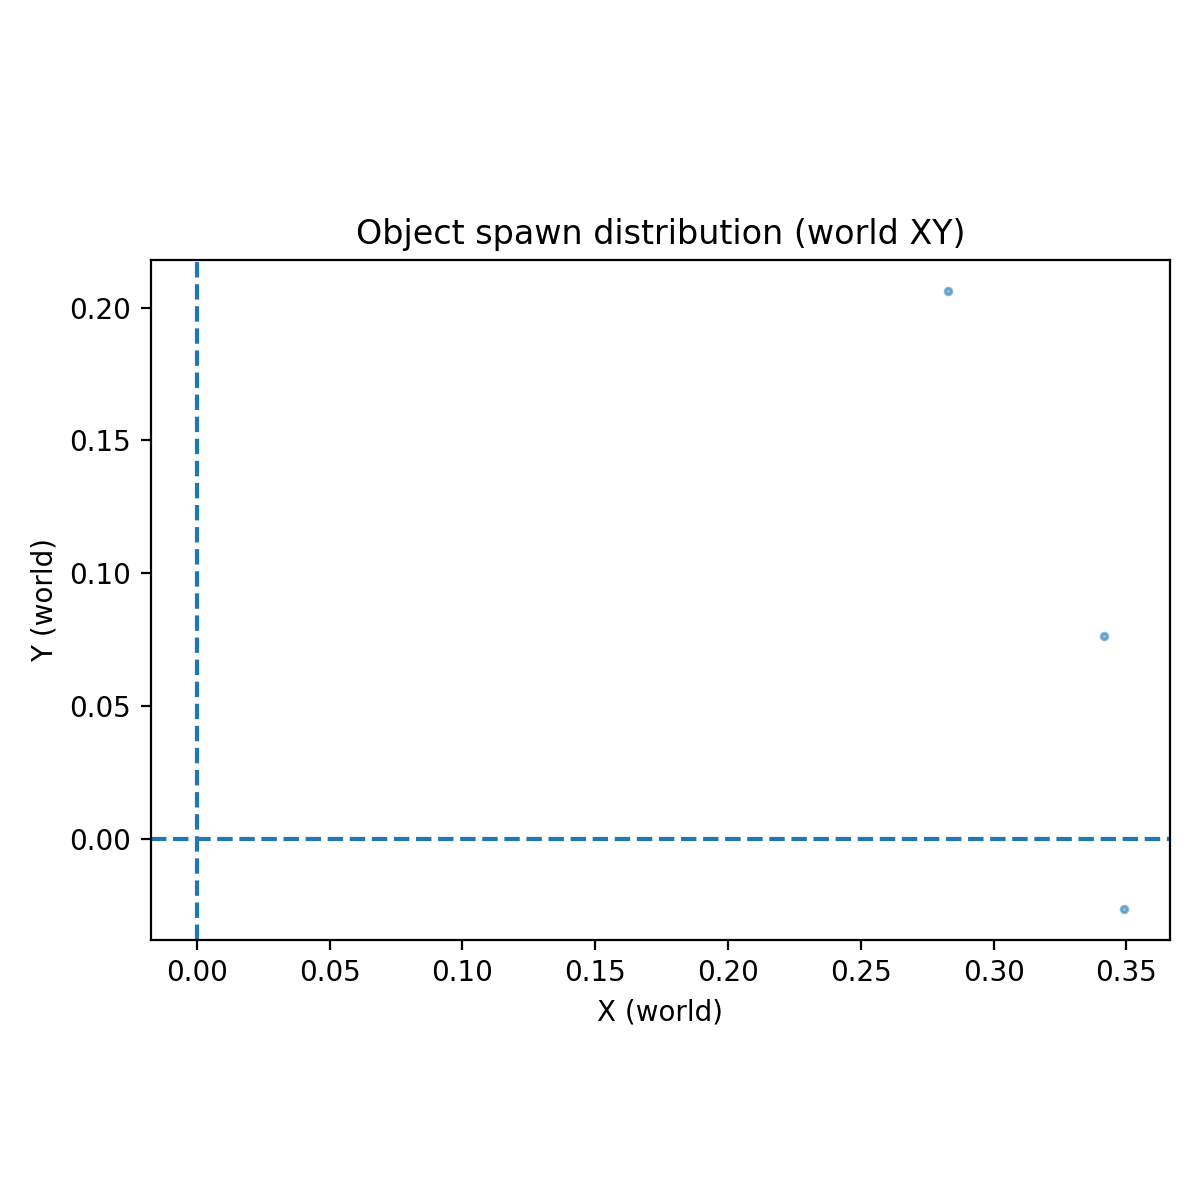
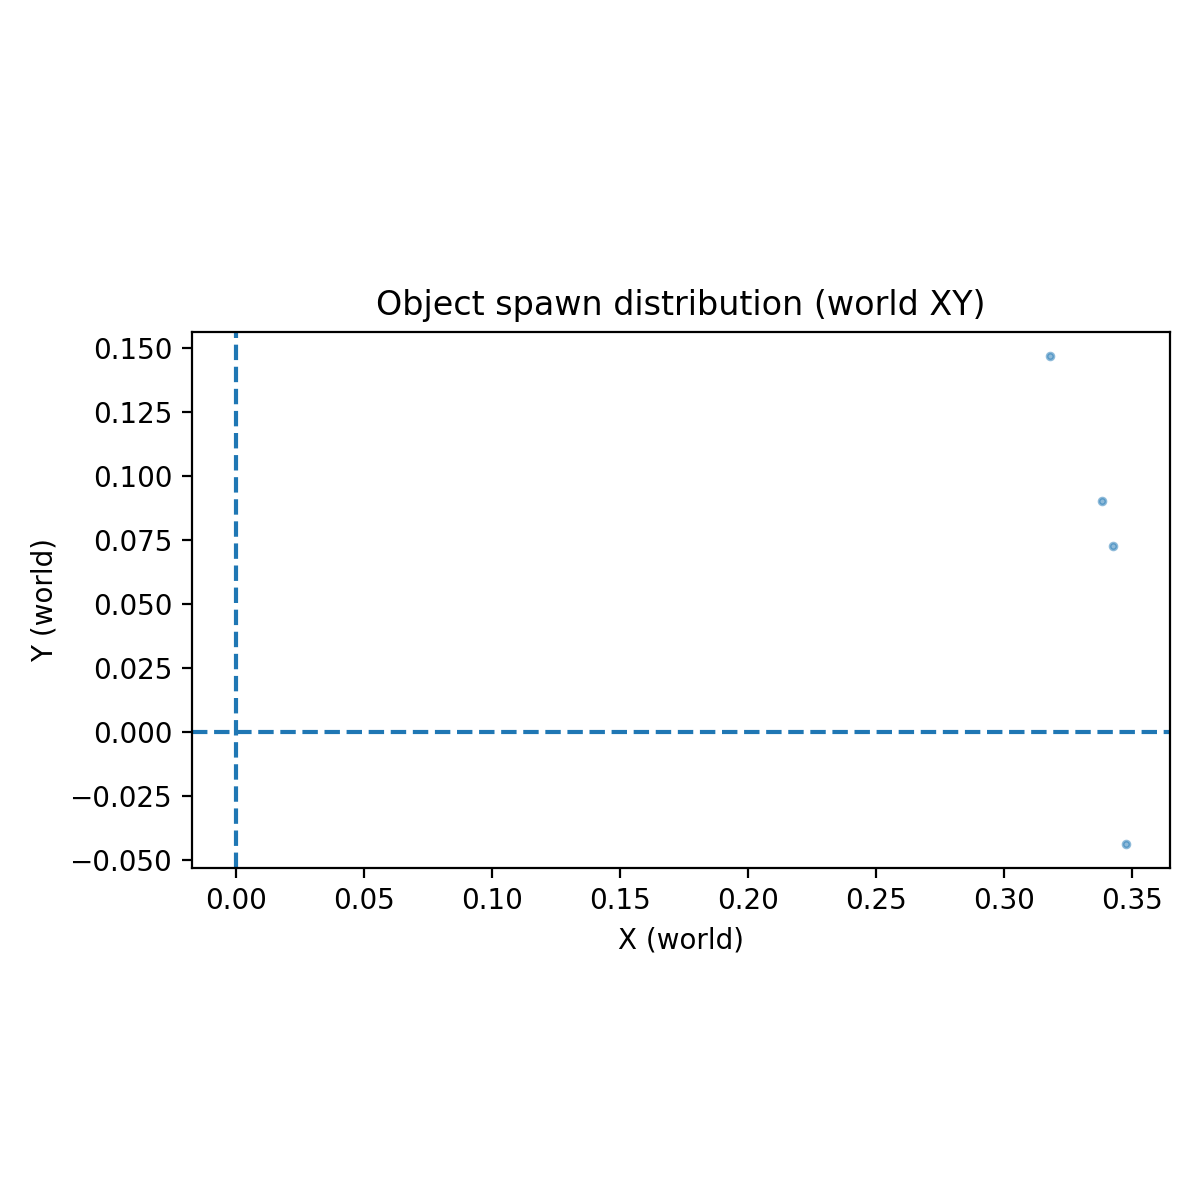
2026.1.16: 加入不戳地版本夹取乐高

Changed region(s): [[0.0617, 0.2158, 0.9867, 0.8633], [0.2775, 0.185, 0.8325, 0.2775], [0.9558, 0.2158, 0.9867, 0.2775]]

diff --git a/source/isaaclab_tasks/isaaclab_tasks/manager_based/manipulation/lift/config/franka/joint_pos_env_cfg.py b/source/isaaclab_tasks/isaaclab_tasks/manager_based/manipulation/lift/config/franka/joint_pos_env_cfg.py
@@ -23,7 +23,7 @@ from isaaclab.assets.articulation import ArticulationCfg
 
 MY_ROBOT_CFG = ArticulationCfg(
     spawn=sim_utils.UsdFileCfg(
-        usd_path=f"/home/robo/code/IsaacLab/source/isaaclab_tasks/isaaclab_tasks/manager_based/manipulation/lift/robot_model/arm_description/urdf/R50/r50_v6_rev/r50_v6_rev.usd",
+        usd_path=f"/home/robo/code/IsaacLab/source/isaaclab_tasks/isaaclab_tasks/manager_based/manipulation/lift/robot_model/arm_description/urdf/R50/r50_v6_rev_finger/r50_v6_rev_flat_finger.usd",
         # usd_path=f"/home/xuyang/xuyang_ws/DRL/isaac/IsaacLab-2.0.0/source/isaaclab_tasks/isaaclab_tasks/manager_based/manipulation/lift/robot_model/arm_description/urdf/marm_backup/marm_backup.usd",
         activate_contact_sensors=True,
         rigid_props=sim_utils.RigidBodyPropertiesCfg(
@@ -62,24 +62,24 @@ MY_ROBOT_CFG = ArticulationCfg(
             joint_names_expr=["M[1-4]"],
             effort_limit=87.0,
             velocity_limit=2.175,  # 2.175  0.17  0.5
-            stiffness=60,
+            stiffness=100,
             damping=4,
         ),
 
         "forearm": ImplicitActuatorCfg(
             joint_names_expr=["M5"],
-            effort_limit=12.0,
-            velocity_limit=0.5,  # 2.61  0.17  0.5
-            stiffness=80.0,
-            damping=4.0,
+            effort_limit=100.0,
+            velocity_limit=2.175,  # 2.61  0.17  0.5
+            stiffness=200.0,
+            damping=5.0,
         ),
 
         "hand": ImplicitActuatorCfg(
             joint_names_expr=["M6_.*"],
-            effort_limit=0.5,
-            velocity_limit=15,
-            stiffness=80,
-            damping=4,
+            effort_limit=50,      # Reduced to prevent excessive force
+            velocity_limit=4.0,     # Keep same
+            stiffness=30,          # Increased from 15 to reduce penetration
+            damping=0.001, 
         ),
     },
     soft_joint_pos_limit_factor=1.0,
@@ -97,18 +97,27 @@ class CoarseArmCubeLiftEnvCfg(LiftEnvCfg):
         self.scene.robot = MY_ROBOT_CFG.replace(prim_path="{ENV_REGEX_NS}/Robot")
 
         # self.actions.arm_action = mdp.RelativeJointPositionActionCfg(
-        #     asset_name="robot", joint_names=["M[0345]"]
+        #     #asset_name="robot", joint_names=["panda_joint.*"], scale=0.5, use_default_offset=True
+        #     asset_name = "robot", 
+        #     joint_names = ["M[0345]"],
+        #     scale={
+        #         "M0": 2,
+        #         "M3": 0.3,
+        #         "M4": 0.3,
+        #         # "M5": 0.08
+        #     }
         # )
         self.actions.arm_action = mdp.JointPositionActionCfg(
             asset_name="robot",
             joint_names=["M[034]"],
             use_default_offset=True,
         )
+
         self.actions.gripper_action = mdp.BinaryJointPositionActionCfg(
             asset_name="robot",
             joint_names=["M6_.*"],
             open_command_expr={"M6_1": 0.65, "M6_2": -0.65},
-            close_command_expr={"M6_1": 0.03, "M6_2": -0.03},
+            close_command_expr={"M6_1": 0.02, "M6_2": -0.02},
         )
 
         self.commands.object_pose.body_name = "M6_1_leftfinger_link"
@@ -169,7 +178,8 @@ class CoarseArmCubeLiftEnvCfg(LiftEnvCfg):
                 # "bus": RigidObjectCfg(
                 #     prim_path="/World/envs/env_.*/bus",
                 #     spawn=sim_utils.UsdFileCfg(
-                #         usd_path="/home/robo/code/IsaacLab/assets1/3D_assets_usd_new/bus_2.usd",
+                #         usd_path="/home/robo/code/IsaacLab/assets1/3D_assets_usd_new/bus_new2.usdc",
+                #         # scale=(1000.0, 1000.0, 1000.0),
                 #         rigid_props=sim_utils.RigidBodyPropertiesCfg(
                 #             solver_position_iteration_count=128,
                 #             solver_velocity_iteration_count=64,
@@ -179,7 +189,7 @@ class CoarseArmCubeLiftEnvCfg(LiftEnvCfg):
                 #             articulation_enabled=False,  # CRITICAL: Disable articulation
                 #         ),
                 #     ),
-                #     init_state=RigidObjectCfg.InitialStateCfg(pos=(0.29, 0.00, 0.02), rot=(0.7071, 0.0, 0.0, 0.7071)),
+                #     init_state=RigidObjectCfg.InitialStateCfg(pos=(0.29, 0.00, 0.03)),
                 # ),
 
                 # "eye_drops": RigidObjectCfg(

diff --git a/source/isaaclab_tasks/isaaclab_tasks/manager_based/manipulation/lift/lift_env_cfg.py b/source/isaaclab_tasks/isaaclab_tasks/manager_based/manipulation/lift/lift_env_cfg.py
@@ -240,13 +240,13 @@ class ResNet18ObservationCfg:
 
         # -------------------- NEW: add M0 joint position --------------------
         # 输出 shape: (num_envs, 1)
-        m0_pos = ObsTerm(
-            func=mdp.joint_pos_rel,  # joint_pos_rel | joint_pos
-            params={"asset_cfg": SceneEntityCfg("robot", joint_names=["M0"])},
-        )
+        # m0_pos = ObsTerm(
+        #     func=mdp.joint_pos_rel,  # joint_pos_rel | joint_pos
+        #     params={"asset_cfg": SceneEntityCfg("robot", joint_names=["M0"])},
+        # )
 
-        def __post_init__(self):
-            self.concatenate_terms = True
+        # def __post_init__(self):
+        #     self.concatenate_terms = True
 
     policy: ObsGroup = ResNet18FeaturesCameraPolicyCfg()
 
@@ -312,7 +312,7 @@ class EventCfg:
                 "yaw": (0.0, 0.0),
             },
             "spawn_mode": "arc_angle",
-            "angle_range_deg": (-40.0, 40.0),   # 只在 -40°~+40° 这个扇形里
+            "angle_range_deg": (-25.0, 25.0),   # 只在 -40°~+40° 这个扇形里
             "radius_range": (0.35, 0.35),       # 物体距离圆心 0.25~0.35m
             "center_from_robot": True,         # 如果 env_origin 就在 M0 下面，就用 False
             "align_yaw_to_center": True,        # 让物体朝向圆心（M0）
@@ -330,7 +330,7 @@ class EventCfg:
 class RewardsCfg:
     """Reward terms for the MDP."""
 
-    termination_penalty = RewTerm(func=mdp.is_terminated, weight=-500.0)
+    termination_penalty = RewTerm(func=mdp.is_terminated, weight=-20.0)
     # debug_contact = RewTerm(func=mdp.debug_contact_forces, weight=0.01)
 
     reaching_object = RewTerm(
@@ -404,6 +404,18 @@ class RewardsCfg:
         weight=5.0,                   # 先小一点，避免模型只顾着转不去抓
     )
 
+    # Base movement penalties - prevent tilting from arm impacts
+    # base_ang_vel_penalty = RewTerm(
+    #     func=mdp.ang_vel_xy_l2,
+    #     weight=-15.0,
+    # )
+
+    base_orientation_penalty = RewTerm(
+        func=mdp.base_orientation_penalty_exp,
+        params={"std": 0.1},  # Adjust: 0.05 (very sensitive) to 0.2 (less sensitive)
+        weight=-10.0,  # Higher weight since exp kernel returns 0-1 range
+    )
+
 
 @configclass
 class TerminationsCfg:
@@ -418,6 +430,14 @@ class TerminationsCfg:
             "y_tolerance": 1,
             "object_cfg": SceneEntityCfg("object_pool"),
             "robot_cfg": SceneEntityCfg("robot")
+        },
+    )
+
+    robot_base_orientation = DoneTerm(
+        func=mdp.bad_orientation,
+        params={
+            "limit_angle": 0.1,  # 0.5 rad ≈ 28.6° tilt limit
+            "asset_cfg": SceneEntityCfg("robot"),
         },
     )
 

diff --git a/source/isaaclab/isaaclab/envs/mdp/rewards.py b/source/isaaclab/isaaclab/envs/mdp/rewards.py
@@ -87,6 +87,24 @@ def ang_vel_xy_l2(env: ManagerBasedRLEnv, asset_cfg: SceneEntityCfg = SceneEntit
     return torch.sum(torch.square(asset.data.root_ang_vel_b[:, :2]), dim=1)
 
 
+def base_orientation_penalty_exp(
+    env: ManagerBasedRLEnv,
+    std: float = 0.1,
+    asset_cfg: SceneEntityCfg = SceneEntityCfg("robot"),
+) -> torch.Tensor:
+    """Penalize non-flat base orientation using exponential kernel for better sensitivity.
+    """
+    asset: RigidObject = env.scene[asset_cfg.name]
+
+    projected_gravity = asset.data.projected_gravity_b[:, :2]  # (num_envs, 2)
+
+    tilt_magnitude = torch.sum(torch.square(projected_gravity), dim=1)  # (num_envs,)
+
+    penalty = 1.0 - torch.exp(-tilt_magnitude / (std ** 2))
+
+    return penalty
+
+
 def flat_orientation_l2(env: ManagerBasedRLEnv, asset_cfg: SceneEntityCfg = SceneEntityCfg("robot")) -> torch.Tensor:
     """Penalize non-flat base orientation using L2 squared kernel.
 
